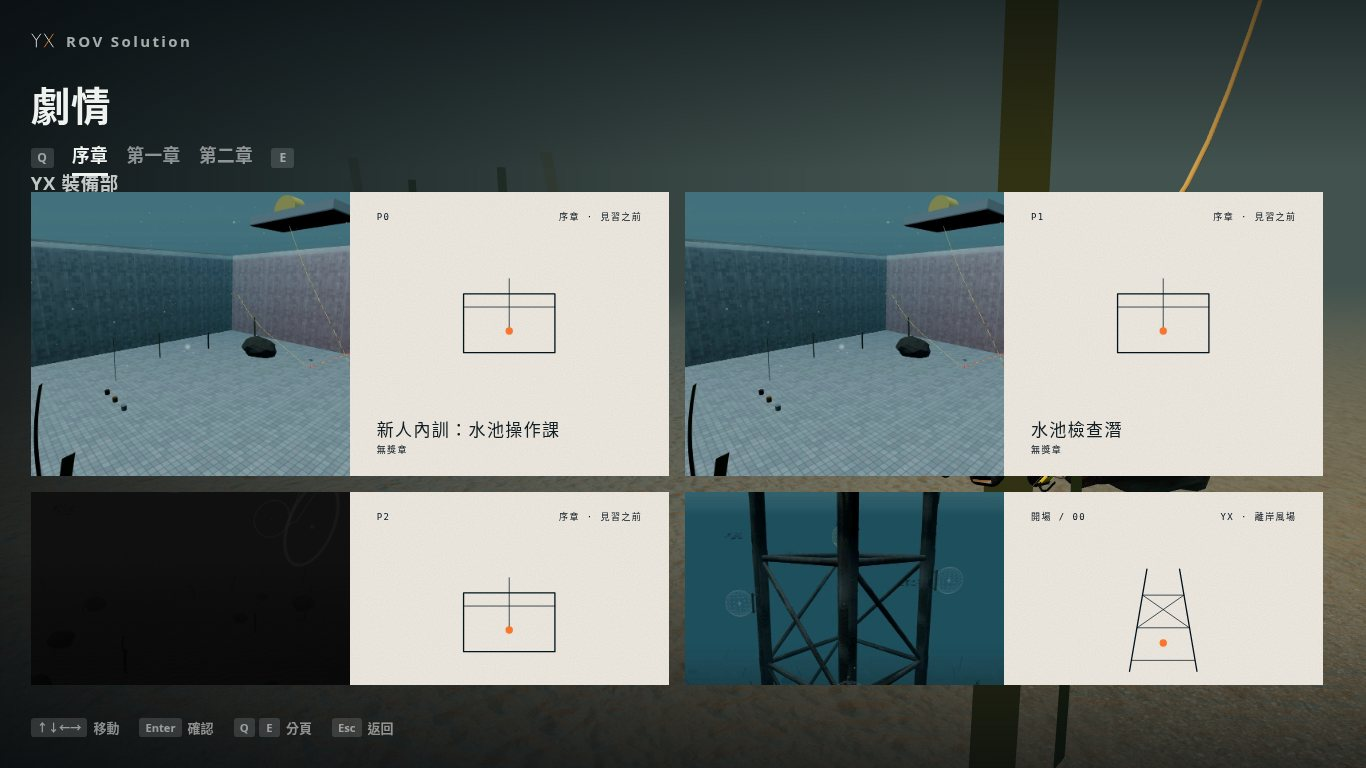
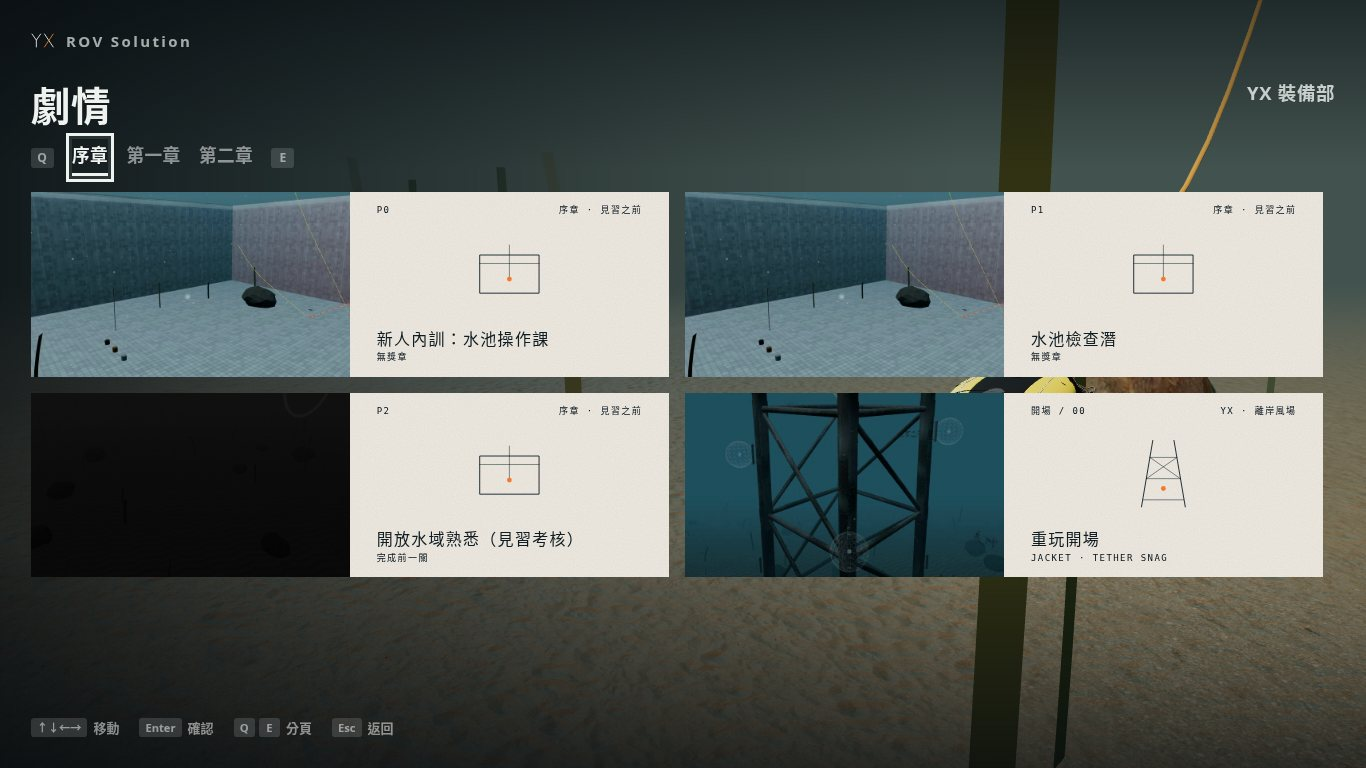
R8: 讓序章卡與裝備入口同時完整入鏡

diff --git a/simulator/viewer/menu/big_picture.css b/simulator/viewer/menu/big_picture.css
@@ -419,7 +419,12 @@ body:is(.pause-open, .results-open) > :not(.app, .pause-menu, .results-screen, .
   .launch-menu.departing::after { animation-duration: 0s; }
 }
 
-.field-story > .bp-link { margin-top: 1vh; }
+.field-story > .bp-link { position: absolute; top: 0; right: 0; }
+.field-grid:has(#journalReplay) { grid-template-columns: repeat(2, minmax(0, 1fr)); }
+.field-order { max-height: 24vh; }
+@media (max-width: 650px) {
+  .field-grid:has(#journalReplay) { grid-template-columns: 1fr; }
+}
 .field-order[data-medal=gold] .brand-card-sub { color: #865e12; }
 .field-order[data-medal=silver] .brand-card-sub { color: #4d606c; }
 .field-order[data-medal=bronze] .brand-card-sub { color: #864c32; }
